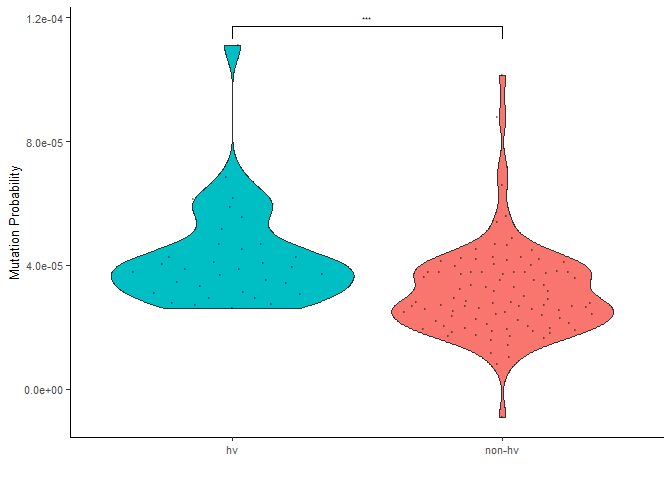
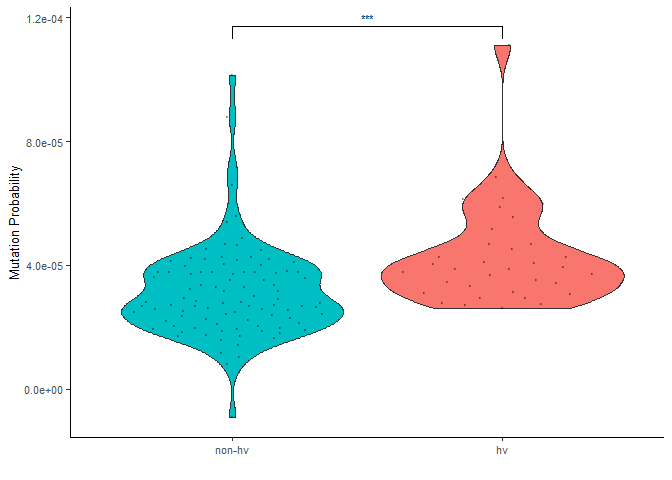
popgen plots update

diff --git a/figure_generation/popgen_plots.md b/figure_generation/popgen_plots.md
@@ -51,7 +51,7 @@ write.csv(popgen_per_domain, paste(zenodo_path, 'popgen_per_domain.csv', sep="")
 write.csv(popgen_per_domain %>% subset(select=c('Gene', 'name', 'HV', 'domain', 'D', 'Pi', 'PiN', 'PiS', 'PiNPiS')), 
           'Source Data//Figure 5//popgen_per_domain.csv')
 write.csv(popgen_per_domain %>% subset(select=c('Gene', 'name', 'HV', 'domain', 'D', 'Pi', 'PiN', 'PiS', 'PiNPiS')), 
-          'Source Data//EV Figure 4//EV 4C//popgen_per_domain.csv')
+          'Source Data//EV Figure 3//EV 3C//popgen_per_domain.csv')
 ```
 
 For gene wide statistics, use just the CDS. Already in the
@@ -68,7 +68,7 @@ NLR_popgen <- read.csv(paste(zenodo_path, 'NLR_gene_table.csv')) %>%
 
 labels <- NLR_popgen$label %>% unique()
 NLR_popgen$label <- factor(NLR_popgen$label, levels=c(labels[1], labels[2]))
-
+NLR_popgen$HV <- factor(NLR_popgen$HV, levels=c('non-hv', 'hv'))
 write.csv(NLR_popgen, 'Source Data//Figure 6//6ABC//NLR_popgen.csv')
 ```
 
@@ -211,7 +211,7 @@ p7 <- ggplot(col_popgen)+
                       xend=c(1.25, 2.25, 3.25, 4.25, 5.25),
                       y = c(0.175, 0.175, 0.175, 0.175, 0.175),
                       annotation2 = c('***',  ' *** ', '  ***  ', '   ***    ', '    ***    ')), 
-              aes(x=x, xend=xend, y=y, yend=y, annotation=annotation2, textsize=2.5))+
+              aes(x=x, xend=xend, y=y, yend=y, annotation=annotation2, textsize=8/.pt))+
     theme(legend.position='none', text=element_text(size=10), axis.title.x = element_blank())
   
 p7 
@@ -337,7 +337,7 @@ p10 <- ggplot(col_popgen,
                       xend=c(1.25, 2.25, 3.25, 4.25, 5.25),
                       y = c(4.1, 4.1, 4.1, 4.1, 4.1),
                       annotation2 = c('***', '*', '**', ' *** ', '  ***  ')), 
-              aes(x=x, xend=xend, y=y, yend=y, annotation=annotation2, textsize=2.5))+
+              aes(x=x, xend=xend, y=y, yend=y, annotation=annotation2, textsize=8/.pt))+
     theme(legend.position='none', text=element_text(size=10), axis.title.x = element_blank())
 
   
@@ -432,7 +432,7 @@ p13 <- pi_long %>%
   geom_violin(lwd=0.25)+
     geom_quasirandom(alpha=0.3, size=0.5)+
    geom_signif(comparisons=list(c('hv', 'non-hv')), 
-               map_signif_level = TRUE, test=wilcox.test, textsize=2, size=0.25, y=c(0.08))+
+               map_signif_level = TRUE, test=wilcox.test, textsize=8/.pt, y=c(0.075))+
   ylim(0,0.085)+
     scale_fill_manual(values=c('#00BFC4', '#F8766D'))+
   theme_classic()+
@@ -483,9 +483,9 @@ NLR_popgen %>% group_by(HV) %>% summarize(mean=mean(PiNPiS, na.rm=TRUE), median=
 
     ## # A tibble: 2 × 3
     ##   HV      mean median
-    ##   <chr>  <dbl>  <dbl>
-    ## 1 hv     0.464  0.450
-    ## 2 non-hv 0.583  0.374
+    ##   <fct>  <dbl>  <dbl>
+    ## 1 non-hv 0.583  0.374
+    ## 2 hv     0.464  0.450
 
 ``` r
 compare_means(PiNPiS~HV, col_popgen%>%filter(domain=='CDS'), method='wilcox.test', paired=FALSE)
@@ -542,6 +542,7 @@ col_popgen %>% filter(domain=='LRR') %>% group_by(HV) %>% summarize(mean=mean(Pi
 ## C: Mutation plot
 
 ``` r
+NLR_popgen$HV <- factor(NLR_popgen$HV, levels=c('non-hv', 'hv'))
 mut_prob_plot <- NLR_popgen %>%
   ggplot(aes(x=HV, y=Mutation.Probability.Score, fill=HV))+
   geom_violin(lwd=0.25)+
@@ -549,7 +550,7 @@ mut_prob_plot <- NLR_popgen %>%
   scale_fill_manual(values=c('#00BFC4', '#F8766D'))+
   theme_classic()+
   geom_signif(comparisons=list(c('non-hv', 'hv')), 
-               map_signif_level = TRUE, test=wilcox.test, textsize=2, size=0.25)+
+               map_signif_level = TRUE, test=wilcox.test, textsize=8/.pt)+
   theme(legend.position='none', text=element_text(size=10))+
   ylim(0,1.2e-4)+
   scale_y_continuous(labels = scales::scientific)+
@@ -564,6 +565,12 @@ mut_prob_plot
 Figure 6C statistics:
 
 ``` r
+print('p value wilcoxon rank sum:')
+```
+
+    ## [1] "p value wilcoxon rank sum:"
+
+``` r
 compare_means(Mutation.Probability.Score~HV, NLR_popgen, method="wilcox.test")$p
 ```
 
@@ -573,26 +580,37 @@ compare_means(Mutation.Probability.Score~HV, NLR_popgen, method="wilcox.test")$p
 summary <- NLR_popgen %>% group_by(HV) %>% summarize(mean=mean(Mutation.Probability.Score), median=median(Mutation.Probability.Score))
 mean_percent_increase <- (summary[2,2]-summary[1,2])/summary[1,2]*100
 med_percent_increase <- (summary[2,3]-summary[1,3])/summary[1,3]*100
+print("mean percent increase:")
+```
+
+    ## [1] "mean percent increase:"
+
+``` r
 print(mean_percent_increase[[1]])
 ```
 
-    ## [1] -26.34908
+    ## [1] 35.77562
 
 ``` r
-print(med_percent_increase)
+print('median percent increase:')
 ```
 
-    ##      median
-    ## 1 -27.64858
+    ## [1] "median percent increase:"
+
+``` r
+print(med_percent_increase[[1]])
+```
+
+    ## [1] 38.21429
 
 ## D: Positive selection sites plot:
 
 ``` r
 facet_sites_internal <- sites_internal_long %>%
   ggplot(aes(x=HV, y=value*100, fill=HV))+
-   geom_beeswarm(size=0.5, aes(color=HV))+
+   geom_beeswarm(size=0.4, aes(color=HV))+
    geom_signif(comparisons=list(c('hv', 'non-hv')), 
-               map_signif_level = TRUE, test=wilcox.test, textsize=2, size=0.25, y=c(16))+
+               map_signif_level = TRUE, test=wilcox.test, textsize=8/.pt, y=c(15.5))+
     scale_color_manual(values=c('#00BFC4','#F8766D'))+
   theme_classic()+
   theme(legend.position='none', text=element_text(size=10))+
@@ -621,7 +639,7 @@ fig6 <- p13+pis_piN+mut_prob_plot+facet_sites_internal
 ggsave(filename='C:\\Users\\chand\\Box Sync\\Krasileva_Lab\\Research\\chandler\\Krasileva Lab\\Outputs\\NLR Features Paper\\EMBO Submission\\Figure Panels\\fig_6.svg', plot=fig6, dpi=1000, width=180,  height=120, units='mm')
 ```
 
-# EV Figure 5C
+# EV Figure 3C
 
 ``` r
 cds <- compare_means(PiNPiS~HV, col_popgen %>% filter(domain=='CDS'), method='wilcox.test', paired=FALSE)$p
@@ -655,7 +673,7 @@ PiNPiS_domain <- ggplot(col_popgen,
 PiNPiS_domain
 ```
 
-![](popgen_plots_files/figure-gfm/EVFig5C-1.png)<!-- -->
+![](popgen_plots_files/figure-gfm/EVFig3C-1.png)<!-- -->
 
 ``` r
 ggsave(filename='C:\\Users\\chand\\Box Sync\\Krasileva_Lab\\Research\\chandler\\Krasileva Lab\\Outputs\\NLR Features Paper\\EMBO Submission\\Figure Panels\\EV_fig5C.svg', plot=PiNPiS_domain, dpi=1000, width=70, height=70, units='mm')
